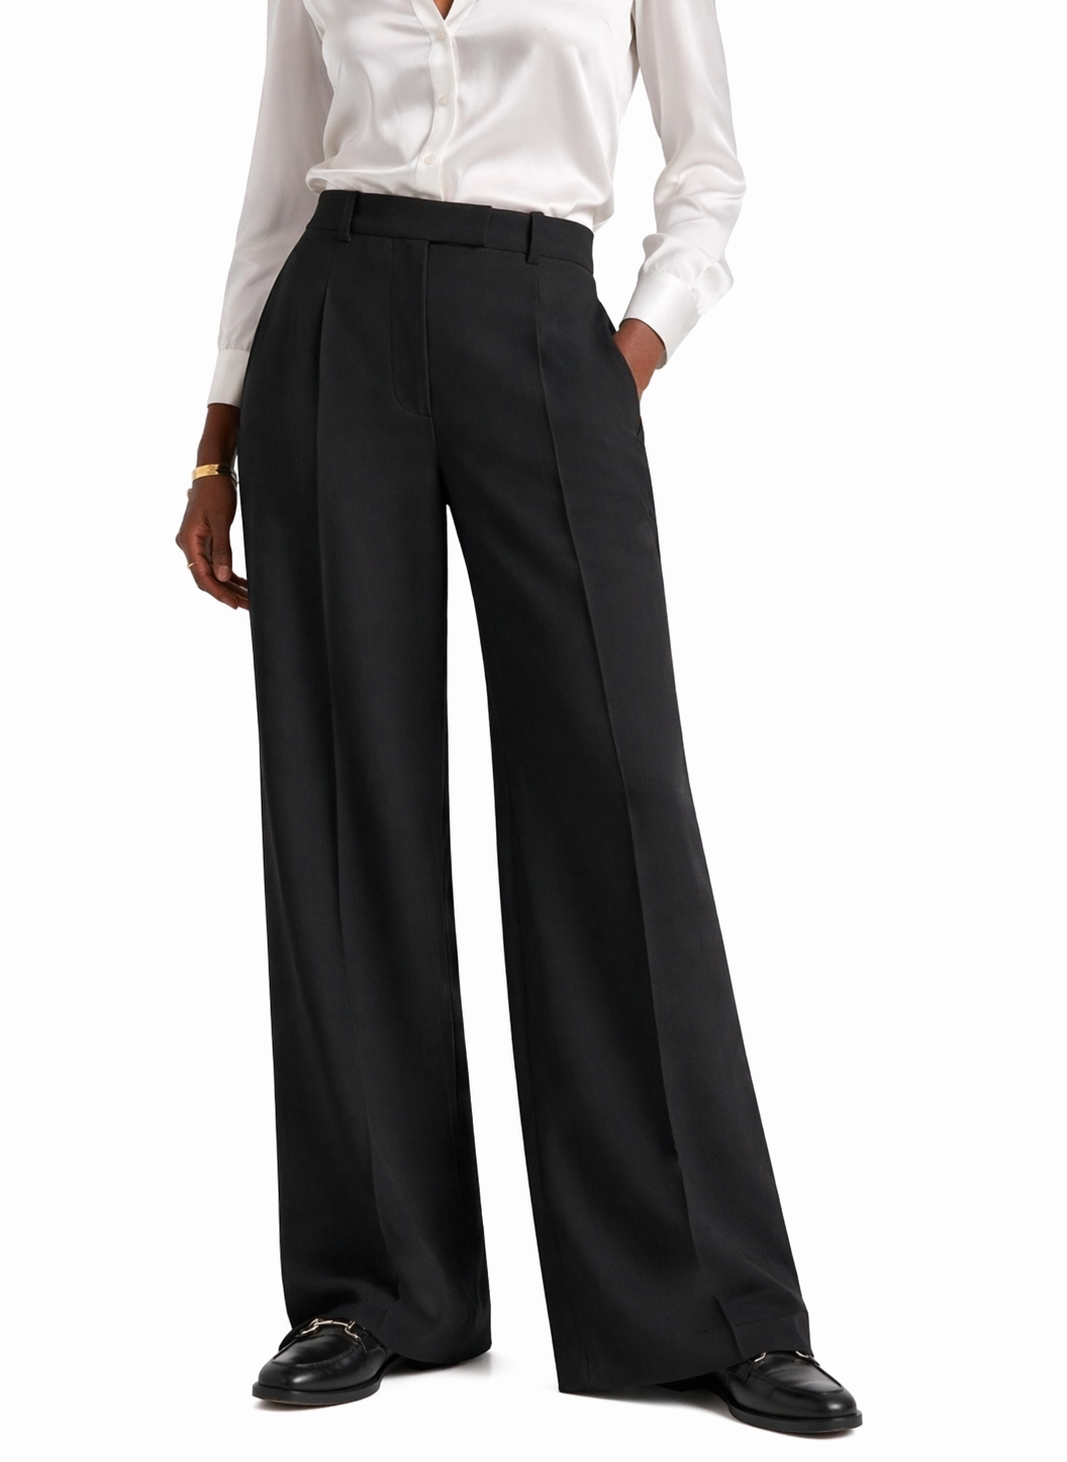
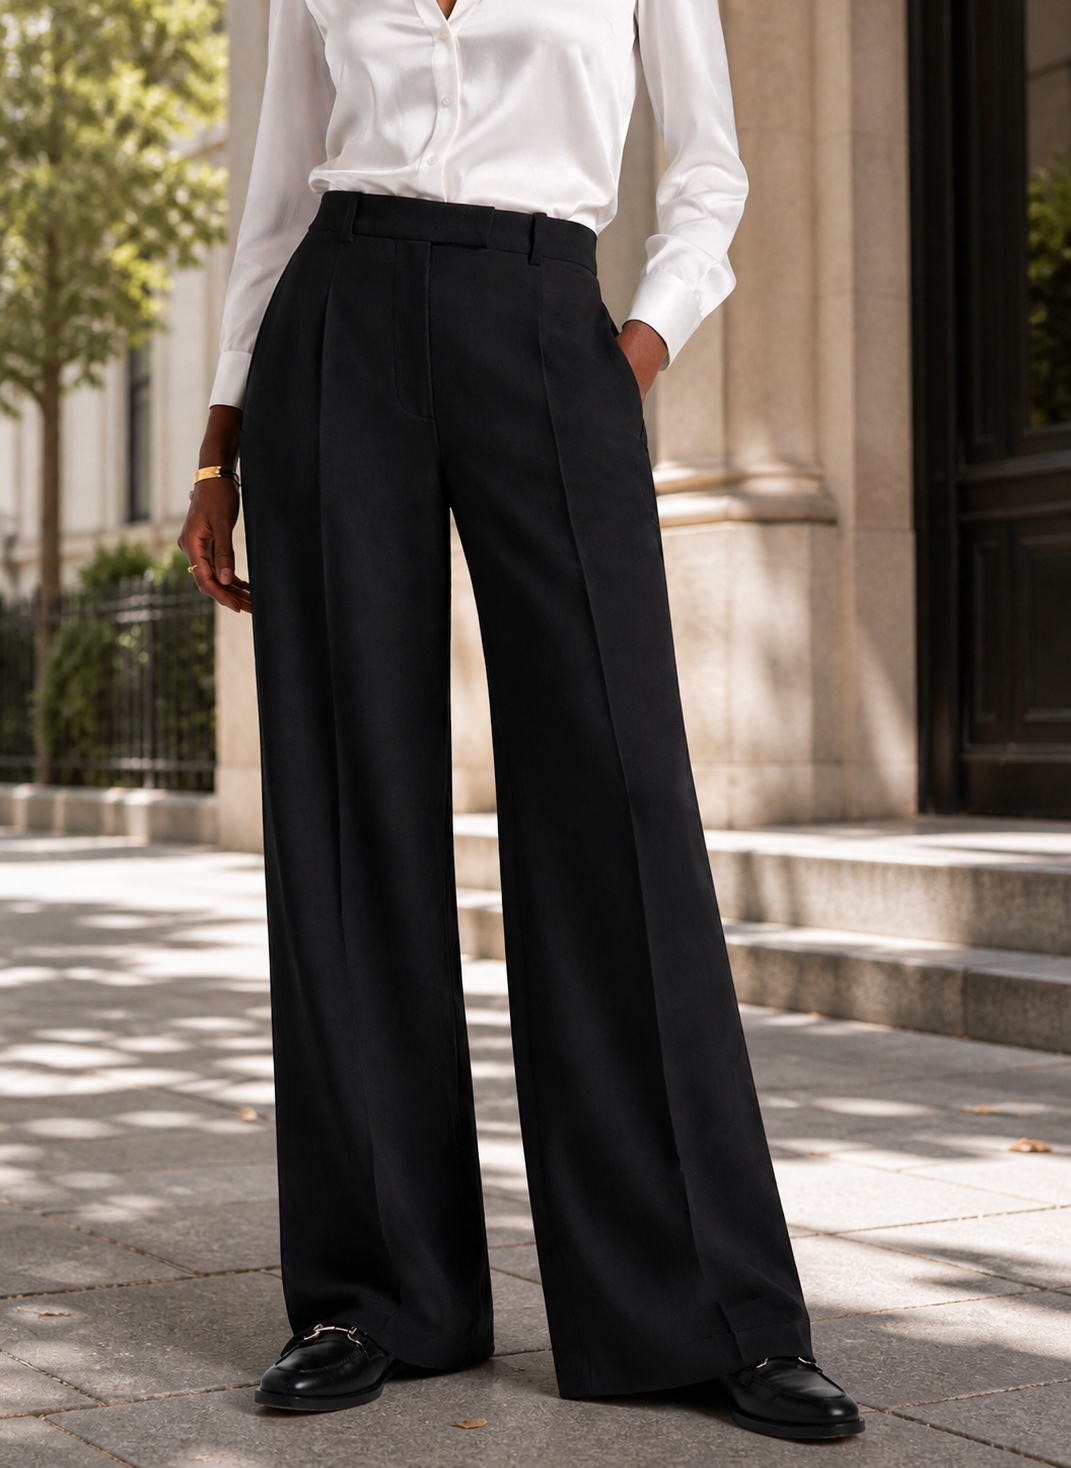
Update all three product cards with photos, badges, and prices
- Swap pants.png to outdoor lifestyle shot
- Add jacket.png and set price to $208
- Change all Coming Soon badges to Pre-order (orange) across jeans and jacket
- Set Night-Out Jean price to $73

diff --git a/index.html b/index.html
@@ -68,7 +68,7 @@
         <div class="product-img-wrap" style="overflow-x:scroll;overflow-y:hidden;scroll-snap-type:x mandatory;display:flex;aspect-ratio:2/3;scrollbar-width:none">
           <img src="jeans-front.png" alt="The Night-Out Jean - Front" style="min-width:100%;height:100%;object-fit:cover;scroll-snap-align:start;flex-shrink:0;">
           <img src="jeans-back.png" alt="The Night-Out Jean - Back" style="min-width:100%;height:100%;object-fit:cover;scroll-snap-align:start;flex-shrink:0;">
-          <span class="product-badge badge-soon">Coming Soon</span>
+          <span class="product-badge badge-preorder">Pre-order</span>
         </div>
         <div style="display:flex;gap:4px;margin-bottom:0.5rem">
           <div style="width:20px;height:2px;background:var(--navy);border-radius:1px"></div>
@@ -83,15 +83,12 @@
       <!-- Product 3: Outerwear -->
       <div class="product-card">
         <div class="product-img-wrap">
-          <div class="product-img-placeholder">
-            <span>🧥</span>
-            <p>photo coming soon</p>
-          </div>
-          <span class="product-badge badge-soon">Coming Soon</span>
+          <img src="jacket.png" alt="The Untethered Jacket">
+          <span class="product-badge badge-preorder">Pre-order</span>
         </div>
         <div class="product-name">The Untethered Jacket</div>
         <div class="product-desc">Outerwear with interior and exterior pockets built to carry what you need — without the bulk.</div>
-        <div class="product-price">TBD</div>
+        <div class="product-price">$208</div>
         <a href="https://forms.gle/wyEKR6wCprZCqFtW6" target="_blank" class="product-add">Join waitlist</a>
       </div>
 
